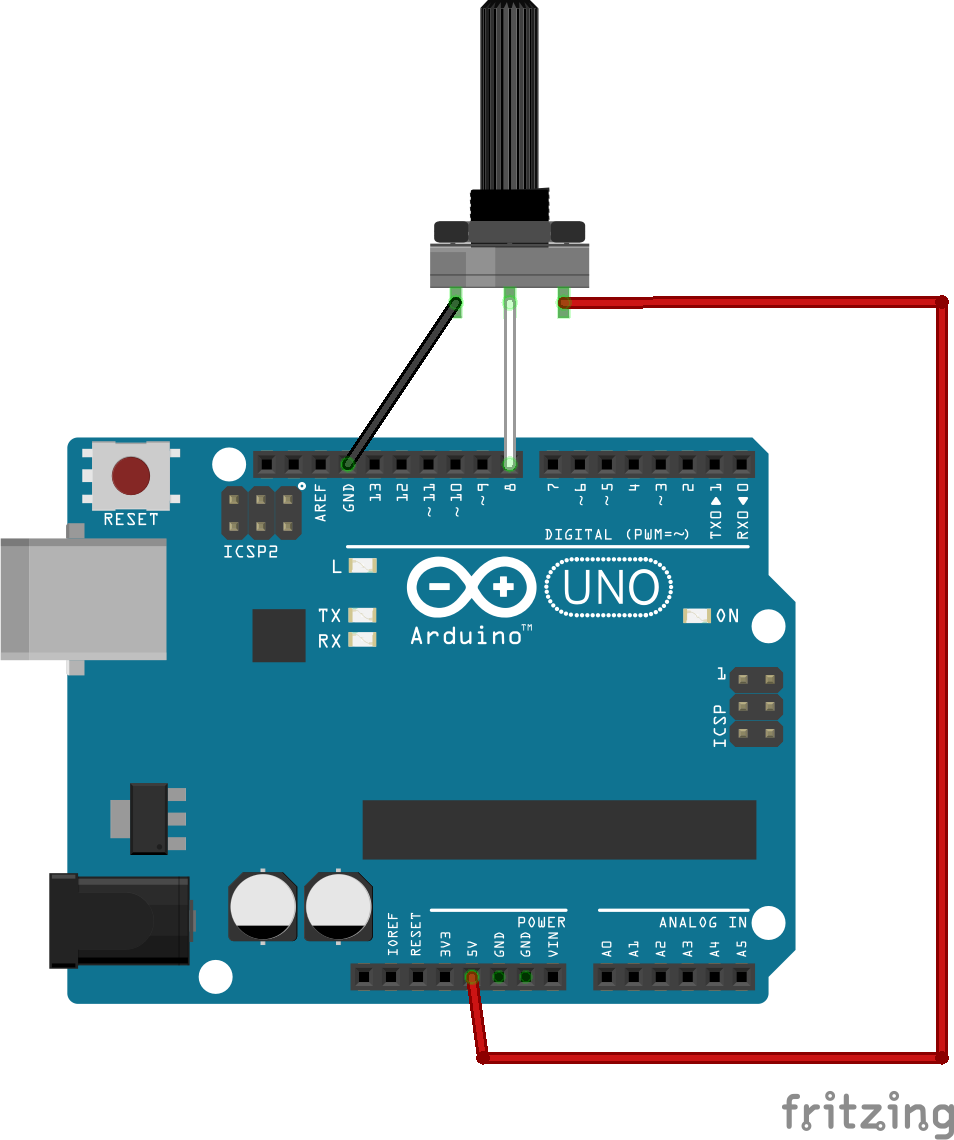
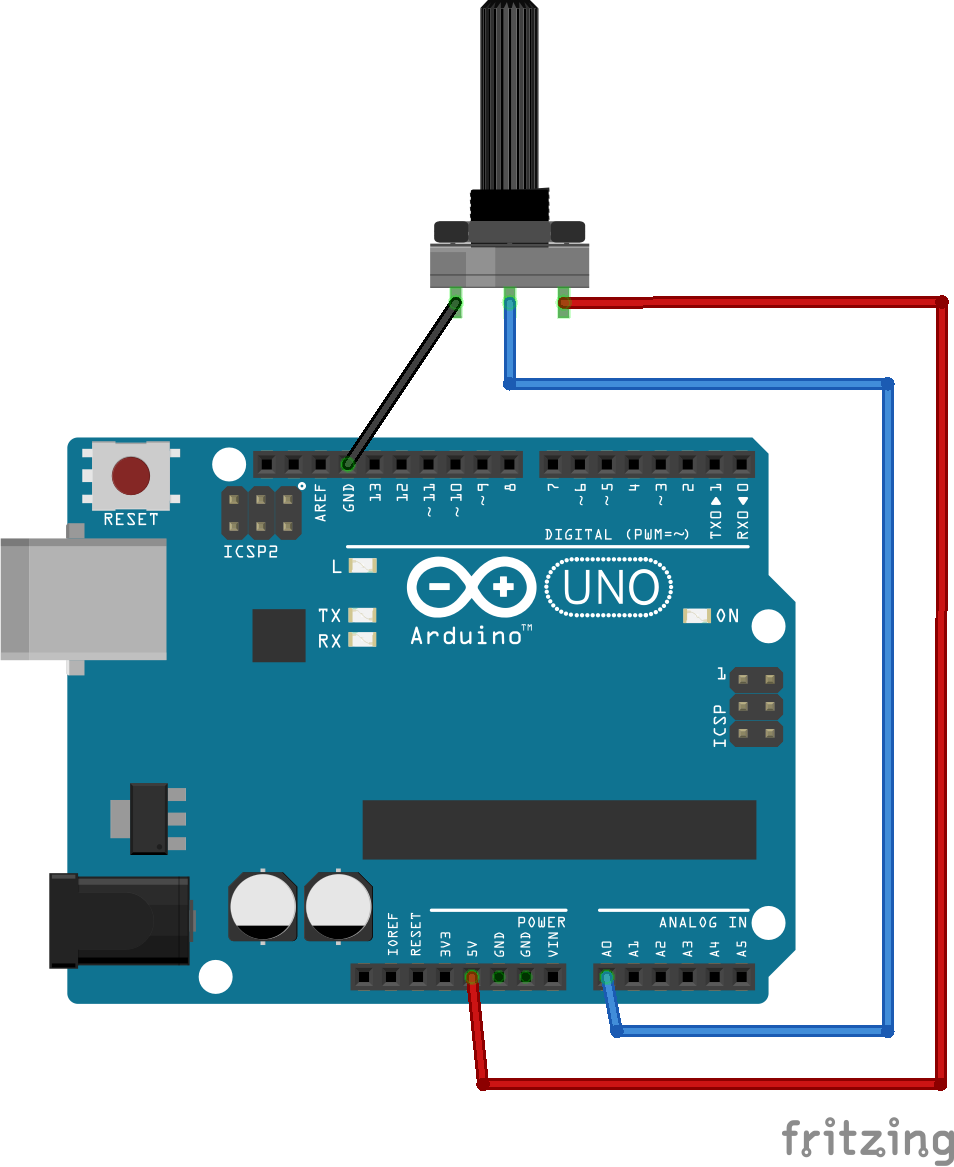
中間コミット

diff --git a/books/mobiflight-msfs2020-build-controller/throttle-volume-resistor.md b/books/mobiflight-msfs2020-build-controller/throttle-volume-resistor.md
@@ -15,12 +15,14 @@ title: "[WIP]スロットルを可変抵抗で制御する"
 - ジャンパーワイヤー
 
 # 回路図
-Arduinoと準備した電子部品を以下のように接続します。
-![](/images/mobiflight-msfs2020-build-controller/throttle-volume-resistor/breadboard.png =400x)
+Arduinoと準備した電子部品を以下のように接続します。今までは0/1のデジタル入力でしたが、今回はアナログ入力になるためArduinoボードのアナログ対応ピン（ピン番号にAとついてるピン）に信号線を接続します。
+![](/images/mobiflight-msfs2020-build-controller/throttle-volume-resistor/breadboard.png =500x)
 回路図で表すと、このようになります。
 ![](/images/mobiflight-msfs2020-build-controller/throttle-volume-resistor/circuit.png =700x)
 
 # MobiFlightの設定
+### デバイスの設定
+### フライトシミュレーターとデバイスのマッピング
 
 # 実行
 

diff --git a/books/mobiflight-msfs2020-build-controller/com-radio-rotary-encoder.md b/books/mobiflight-msfs2020-build-controller/com-radio-rotary-encoder.md
@@ -53,7 +53,7 @@ https://www.youtube.com/watch?v=OZRRuR6Dq8Y
 
 # まとめ
 これでロータリーエンコーダーを使用した入力ができるようになりました。
-ここまで学んできたスイッチ、LED、7セグメントLED、ダイヤルを組み合わせることで、すでに数多くのコックピット要素を作成できるようになっているはずです。
+ここまで学んできたLED、スイッチ、7セグメントLED、ロータリーエンコーダーを組み合わせることで、すでに数多くのコックピット要素を作成できるようになっているはずです。
 次のチャプターでは、スロットルなどに使用される可変抵抗（ポテンショメーター）を使ったアナログ値の入力を行います。
 
 # クリーンアップ
